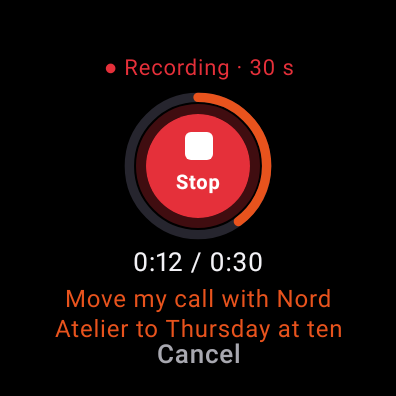
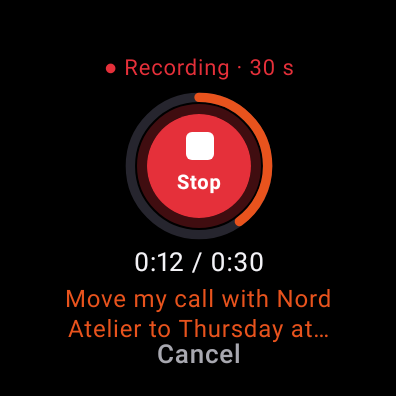
Wear: the recording screen's heard words stay inside the 40 mm face

diff --git a/android/wear/src/main/kotlin/bot/tafs/wear/ReviewScreens.kt b/android/wear/src/main/kotlin/bot/tafs/wear/ReviewScreens.kt
@@ -119,6 +119,7 @@ internal fun VoiceScreenV2(voice: WatchModel.Voice, act: Actions, now: () -> Lon
 @Composable
 private fun RecordScreen(heard: String?, seconds: Int, act: Actions, start: (() -> Unit)?) {
   BoxWithConstraints(Modifier.fillMaxSize().background(Color.Black)) {
+    val heardWidth = (maxWidth * HEARD_WIDTH_SHARE).coerceAtMost(150.dp)
     Column(Modifier.align(Alignment.TopCenter).padding(top = maxHeight * TOP_INSET_SHARE), horizontalAlignment = Alignment.CenterHorizontally) {
       val state = if (start != null) Words.Watch.ready else "● ${Words.Watch.recording}"
       T("$state · ${limitShort()}", 11.sp, if (start != null) Look.dim else Look.recording, lines = 1,
@@ -140,9 +141,11 @@ private fun RecordScreen(heard: String?, seconds: Int, act: Actions, start: (() 
       }
       T("%d:%02d / 0:%02d".format(seconds / 60, seconds % 60, LISTEN_LIMIT_MS / 1000), 13.sp, Look.text, lines = 1)
       Spacer(Modifier.height(2.dp))
-      // The words as they're heard; before Start, what to do. Two lines: a third would meet the face's curve at its sides.
+      // The words as they're heard; before Start, what to do. Two lines: a third would meet the face's curve at its sides. Their
+      // width follows the face: on the 40 mm Watch 5 the face is ~151 dp across at the second line, so 150 dp ran to its edge
+      // (mac12's #1439 note); 44 mm keeps 150.
       T(heard?.takeIf { it.isNotEmpty() } ?: Words.Watch.tapStart, 12.sp, if (heard.isNullOrEmpty()) Look.dim else Look.send,
-        modifier = Modifier.width(150.dp), lines = 2, lineHeight = 15.sp)
+        modifier = Modifier.width(heardWidth).testTag(RECORD_HEARD), lines = 2, lineHeight = 15.sp)
     }
     Box(Modifier.align(Alignment.BottomCenter).padding(bottom = 6.dp)) { QuietButton(Words.Common.cancel, act.closeVoice) }
   }
@@ -183,6 +186,10 @@ private fun RecordButton(recording: Boolean, onClick: () -> Unit) {
 internal const val RECORD_START = "record-start"
 internal const val RECORD_STOP = "record-stop"
 internal const val RECORD_STATE = "record-state"
+internal const val RECORD_HEARD = "record-heard"
+
+/** The heard words' width on the recording screen, as a share of the face's. */
+internal const val HEARD_WIDTH_SHARE = 0.68f
 
 /** The review's foot: the height its pinned actions take, and the fade the words scroll into above them. */
 internal val REVIEW_FOOT: Dp = 68.dp

diff --git a/android/wear/src/test/kotlin/bot/tafs/wear/WatchPagesTest.kt b/android/wear/src/test/kotlin/bot/tafs/wear/WatchPagesTest.kt
@@ -228,11 +228,11 @@ class WatchPagesTest {
   }
 
   /** True when every corner of [box] lies inside the round face the root draws on. */
-  private fun insideTheFace(box: androidx.compose.ui.unit.DpRect): Boolean {
+  private fun insideTheFace(box: androidx.compose.ui.unit.DpRect, margin: androidx.compose.ui.unit.Dp = androidx.compose.ui.unit.Dp(0f)): Boolean {
     val face = compose.onRoot().getBoundsInRoot()
-    val r = (face.right - face.left) / 2
-    val cx = face.left + r
-    val cy = face.top + r
+    val r = (face.right - face.left) / 2 - margin
+    val cx = face.left + (face.right - face.left) / 2
+    val cy = face.top + (face.right - face.left) / 2
     return listOf(box.left to box.top, box.right to box.top, box.left to box.bottom, box.right to box.bottom).all { (x, y) ->
       val dx = (x - cx).value
       val dy = (y - cy).value
@@ -287,6 +287,14 @@ class WatchPagesTest {
     // TalkBack reads the limit in full.
     line.assertContentDescriptionEquals("● ${Words.Watch.recording} · ${Words.Watch.limit}")
     assertTrue("the top line meets the face's curve", insideTheFace(line.getBoundsInRoot()))
+  }
+
+  /** On the 40 mm face, the heard words' two lines stay clear of the curve, with room to spare (mac12's #1439 note). */
+  @Test fun theHeardWordsStayInsideTheFaceAt40mm() {
+    roundFace()
+    show(read, voice = WatchModel.Voice.Listening("Move my call with Nord Atelier to Thursday at ten, and tell Ivo", null, since = System.currentTimeMillis()))
+    val words = compose.onNodeWithTag(RECORD_HEARD).getBoundsInRoot()
+    assertTrue("the heard words run to the face's edge: $words", insideTheFace(words, androidx.compose.ui.unit.Dp(4f)))
   }
 
   @Test fun deletedSaysNothingWasSent() {

diff --git a/docs/watch-wear.md b/docs/watch-wear.md
@@ -196,7 +196,8 @@ dismissed state, an ask to one taf, alerts per taf), flipped as each lands.
 `WatchPagesTest`). Nothing leaves the watch before Send:
 - **The microphone** opens its screen ready (`Voice.Ready`): **Start**, a round button in the brand's colours with the
   microphone, "Ready · 30 s", and what to do. Start listens; the screen shows "● Recording · 30 s" in red, the timer against
-  0:30, a ring that fills to the limit, the words as they're heard (two lines; the review has them all), and **Stop**: another
+  0:30, a ring that fills to the limit, the words as they're heard (two lines, 68% of the face's width up to 150 dp, so on the 40 mm Watch 5 they stay clear of
+  the curve, `theHeardWordsStayInsideTheFaceAt40mm`; the review has them all), and **Stop**: another
   control, not Start relabelled, a solid red button with a white square and a halo, as mockup v2.1 draws it (`RECORD_START`,
   `RECORD_STOP`). The top line is kept short for the top of a round face, and TalkBack reads it in full ("Ready · 30 s at
   most", `watch.limit`); it sits 12 % of the face down (`TOP_INSET_SHARE`), where the face is wide enough for it (the Galaxy

diff --git a/changes/wear-042-stop.md b/changes/wear-042-stop.md
@@ -1,2 +1,3 @@
 - **Wear OS, test versions: Stop now ends the recording before the words come back.** With the app's own microphone (Play and Pause, test versions only), Stop only asked the watch's recognizer to stop while the app kept sending it sound, so the recognizer never reached the end and the watch said "Didn't catch that". Stop now closes the recording first: the words come back, and the recording stays for Play ([watch-wear.md](docs/watch-wear.md)). Release versions, which keep no recording, are unchanged.
 - **Wear OS: TalkBack names Coach once while it works.** A Coach turn at work was heard as "Coach: Coach · Working"; it's now heard as its state line alone. An answer is still heard as "Coach: …" ([watch-wear.md](docs/watch-wear.md)).
+- **Wear OS, 40 mm: the words heard while recording stay clear of the screen's edge.** Their two lines took 150 dp, about the round face's whole width at that height on the 40 mm Galaxy Watch 5; they now take 68% of the face's width (44 mm unchanged) ([watch-wear.md](docs/watch-wear.md)).
